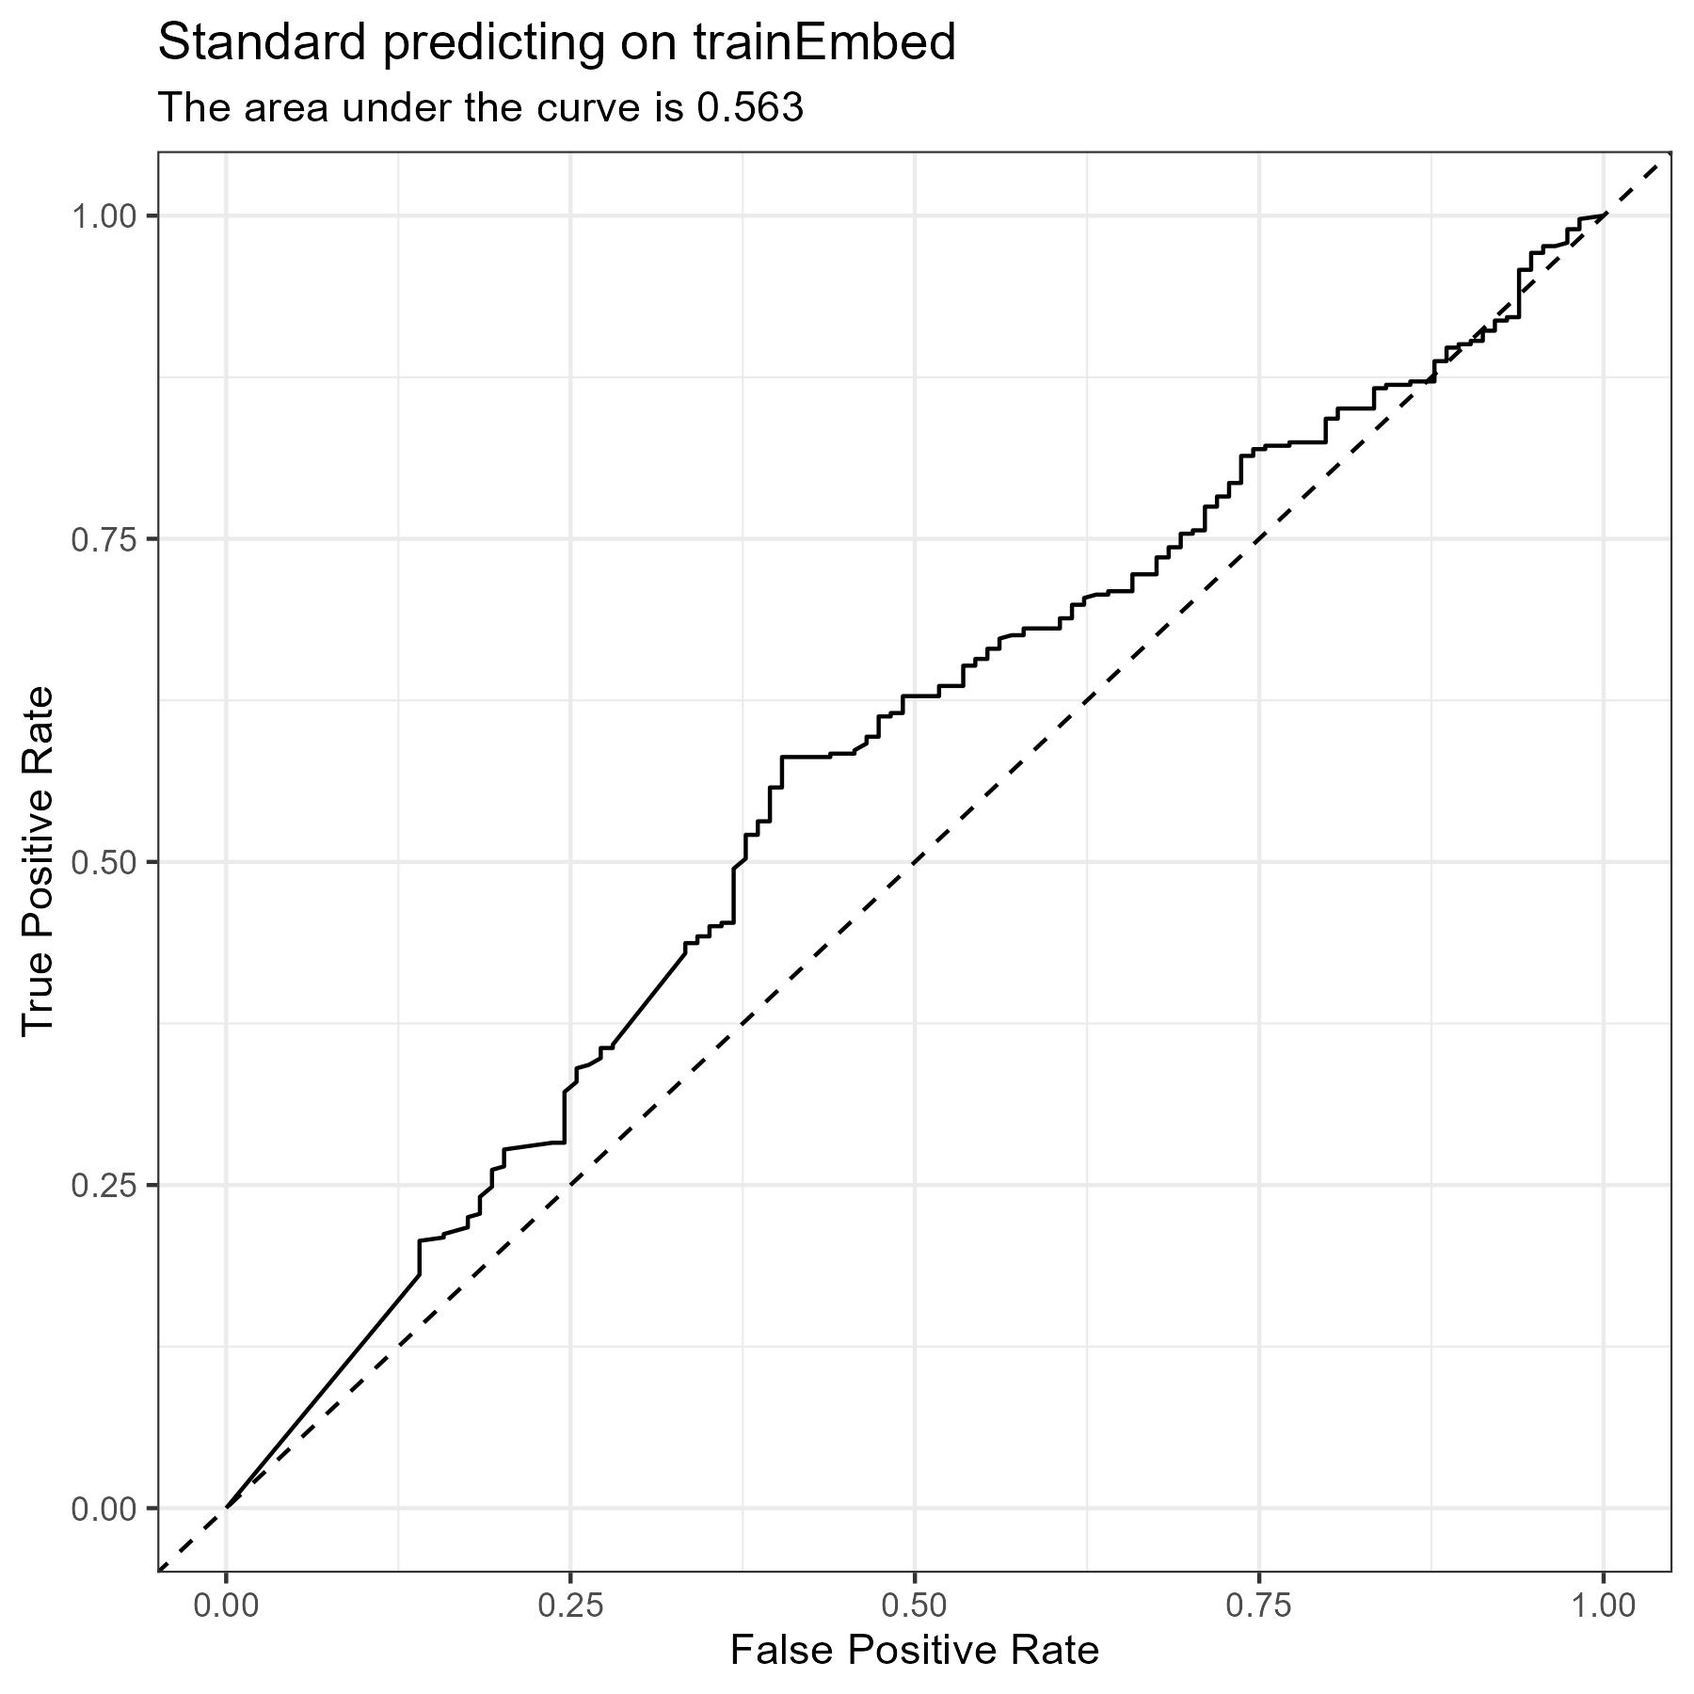
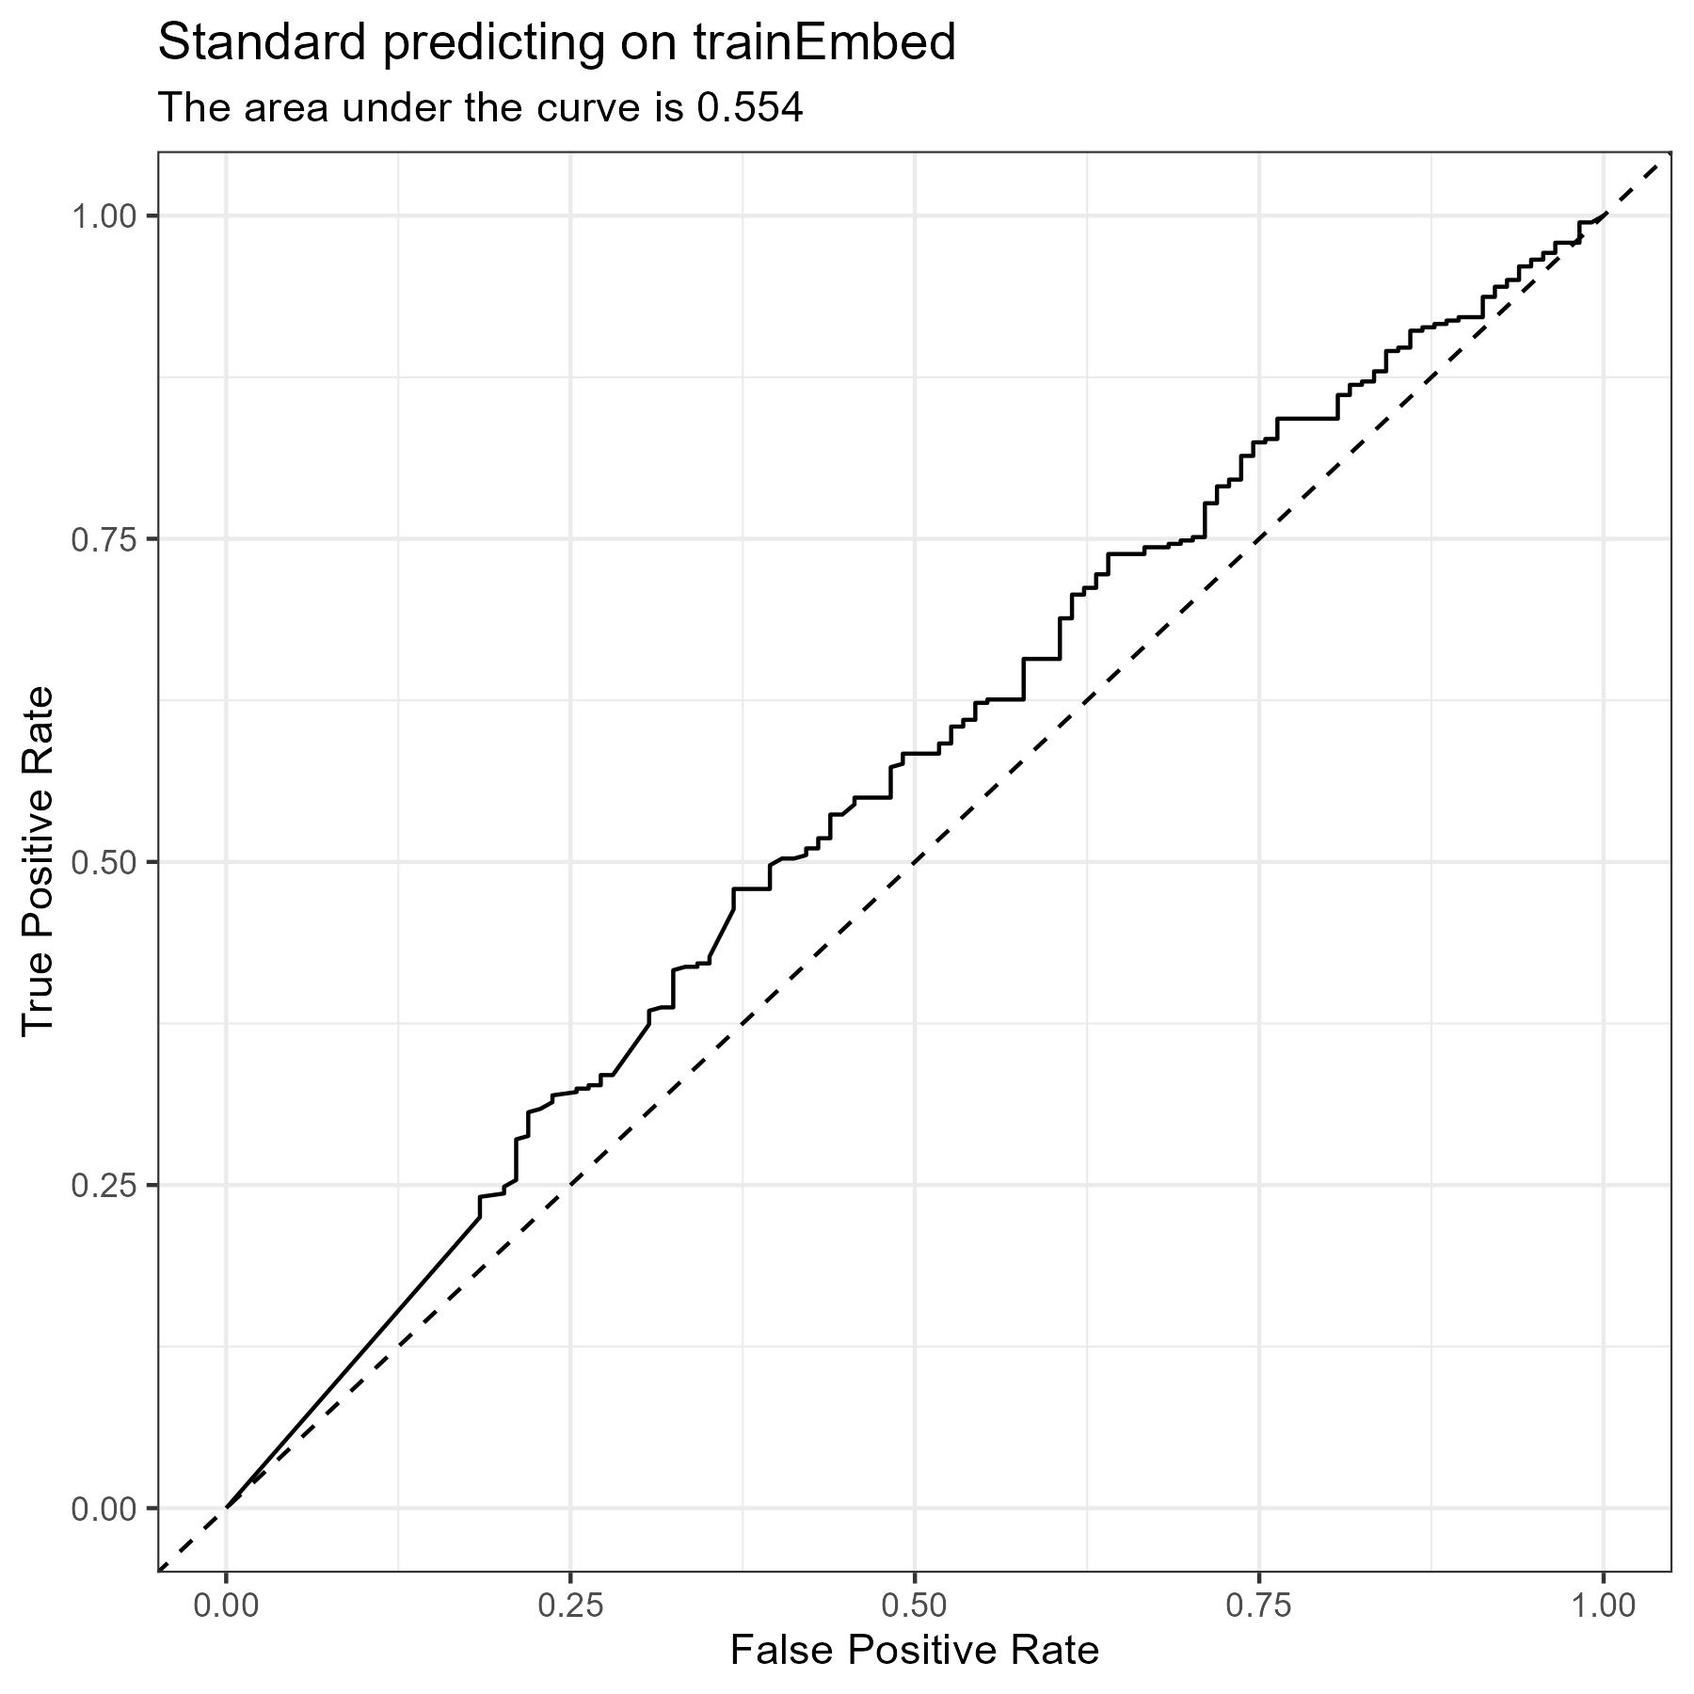
[X] updating 17

diff --git a/updates/17_Adversarial_Network.md b/updates/17_Adversarial_Network.md
@@ -99,6 +99,9 @@ geometry: "margin=1in"
     - 0.0002 Learning Rate
     - Stop Wait: 20
 
+## Initial Classification (for comparison)
+<!--{-->
+
   Stats:
     - Accuracy:     0.227
     - ROC AUC:     0.497
@@ -111,6 +114,15 @@ geometry: "margin=1in"
 |:---:|:---:|:---:|
 | GSE25055 | ![The area under the ROC Curve is 0.497](../plots/11_Adversarial_Network/GSE62944/GSE62944.jpg) | ![Two dimensional PCA plot of METABRIC, GSE62944](../plots/11_Adversarial_Network/GSE62944/GSE62944PCA.jpg) |
 | GSE62944 | ![The area under the ROC Curve is 0.932](../plots/11_Adversarial_Network/GSE62944/newGSE62944.jpg) | ![Two dimensional PCA plot of METABRIC, newGSE62944](../plots/11_Adversarial_Network/GSE62944/rangeEachGSE62944PCA.jpg) |
+
+<!--}-->
+
+## Training Plot
+
+![Training plot of GSE62944](../plots/11_Adversarial_Network/GSE62944/_trainModel_GSE62944_.jpg)
+
+## Data Metrics
+<!--{-->
 
 | Data Set | Max | Min | Mean | Median | SD |
 |:---:|:---:|:---:|:---:|:---:|:---:|
@@ -127,16 +139,18 @@ geometry: "margin=1in"
 | val [after] | 8.763 | -10.404 | -0.054 | 0.037 | 1.069 |
 | test [after] | 9.739 | -18.482 | -0.089 | 0.032 | 1.124 |
 
+<!--}-->
 
-![Two dimensional PCA plot of standardBefore, trainBefore](../plots/11_Adversarial_Network/GSE62944/trainBeforeROC.jpg)
-![Two dimensional PCA plot of standardBefore, valBefore](../plots/11_Adversarial_Network/GSE62944/valBeforeROC.jpg)
-![Two dimensional PCA plot of standardBefore, testBefore](../plots/11_Adversarial_Network/GSE62944/testBeforeROC.jpg)
-![Two dimensional PCA plot of standardEmbed, trainEmbed](../plots/11_Adversarial_Network/GSE62944/trainEmbedROC.jpg)
-![Two dimensional PCA plot of standardEmbed, valEmbed](../plots/11_Adversarial_Network/GSE62944/valEmbedROC.jpg)
-![Two dimensional PCA plot of standardEmbed, testEmbed](../plots/11_Adversarial_Network/GSE62944/testEmbedROC.jpg)
-![Two dimensional PCA plot of standardAfter, trainAfter](../plots/11_Adversarial_Network/GSE62944/trainAfterROC.jpg)
-![Two dimensional PCA plot of standardAfter, valAfter](../plots/11_Adversarial_Network/GSE62944/valAfterROC.jpg)
-![Two dimensional PCA plot of standardAfter, testAfter](../plots/11_Adversarial_Network/GSE62944/testAfterROC.jpg)
+## PCA Plots
+
+| Time | Train | Val | Test |
+|:---:|:---:|:---:|:---:|
+| Before | ![Two dimensional PCA plot of standardBefore, trainBefore](../plots/11_Adversarial_Network/GSE62944/trainBeforePCA.jpg) | ![Two dimensional PCA plot of standardBefore, valBefore](../plots/11_Adversarial_Network/GSE62944/valBeforePCA.jpg) | ![Two dimensional PCA plot of standardBefore, testBefore](../plots/11_Adversarial_Network/GSE62944/testBeforePCA.jpg) |
+| During | ![Two dimensional PCA plot of standardEmbed, trainEmbed](../plots/11_Adversarial_Network/GSE62944/trainEmbedPCA.jpg) | ![Two dimensional PCA plot of standardEmbed, valEmbed](../plots/11_Adversarial_Network/GSE62944/valEmbedPCA.jpg) | ![Two dimensional PCA plot of standardEmbed, testEmbed](../plots/11_Adversarial_Network/GSE62944/testEmbedPCA.jpg) |
+| After | ![Two dimensional PCA plot of standardAfter, trainAfter](../plots/11_Adversarial_Network/GSE62944/trainAfterPCA.jpg) | ![Two dimensional PCA plot of standardAfter, valAfter](../plots/11_Adversarial_Network/GSE62944/valAfterPCA.jpg) | ![Two dimensional PCA plot of standardAfter, testAfter](../plots/11_Adversarial_Network/GSE62944/testAfterPCA.jpg) |
+
+## Prediction Metrics
+<!--{-->
 
 #### trainBefore Confusion Matrix
 
@@ -184,103 +198,96 @@ geometry: "margin=1in"
 
 |   Predicted/Actual    |   +   |   -   |
 | :-------------------: | :---: | :---: |
-|           +           |  315  |  86  |
-|           -           |  67  |  28  |
+|           +           |  317  |  87  |
+|           -           |  65  |  27  |
 
 #### trainEmbed Metrics
 
-- Accuracy:     0.692
-- Precision:    0.786
-- Recall:       0.825
-- Specificity:  0.246
+- Accuracy:     0.694
+- Precision:    0.785
+- Recall:       0.83
+- Specificity:  0.237
 
 #### valEmbed Confusion Matrix
 
 |   Predicted/Actual    |   +   |   -   |
 | :-------------------: | :---: | :---: |
-|           +           |  121  |  35  |
-|           -           |  42  |  16  |
+|           +           |  119  |  35  |
+|           -           |  44  |  16  |
 
 #### valEmbed Metrics
 
-- Accuracy:     0.64
-- Precision:    0.776
-- Recall:       0.742
+- Accuracy:     0.631
+- Precision:    0.773
+- Recall:       0.73
 - Specificity:  0.314
 
 #### testEmbed Confusion Matrix
 
 |   Predicted/Actual    |   +   |   -   |
 | :-------------------: | :---: | :---: |
-|           +           |  199  |  47  |
-|           -           |  41  |  18  |
+|           +           |  203  |  47  |
+|           -           |  37  |  18  |
 
 #### testEmbed Metrics
 
-- Accuracy:     0.711
-- Precision:    0.809
-- Recall:       0.829
+- Accuracy:     0.725
+- Precision:    0.812
+- Recall:       0.846
 - Specificity:  0.277
 
 #### trainAfter Confusion Matrix
 
 |   Predicted/Actual    |   +   |   -   |
 | :-------------------: | :---: | :---: |
-|           +           |  309  |  88  |
-|           -           |  73  |  26  |
+|           +           |  306  |  87  |
+|           -           |  76  |  27  |
 
 #### trainAfter Metrics
 
-- Accuracy:     0.675
-- Precision:    0.778
-- Recall:       0.809
-- Specificity:  0.228
+- Accuracy:     0.671
+- Precision:    0.779
+- Recall:       0.801
+- Specificity:  0.237
 
 #### valAfter Confusion Matrix
 
 |   Predicted/Actual    |   +   |   -   |
 | :-------------------: | :---: | :---: |
-|           +           |  120  |  33  |
-|           -           |  43  |  18  |
+|           +           |  119  |  35  |
+|           -           |  44  |  16  |
 
 #### valAfter Metrics
 
-- Accuracy:     0.645
-- Precision:    0.784
-- Recall:       0.736
-- Specificity:  0.353
+- Accuracy:     0.631
+- Precision:    0.773
+- Recall:       0.73
+- Specificity:  0.314
 
 #### testAfter Confusion Matrix
 
 |   Predicted/Actual    |   +   |   -   |
 | :-------------------: | :---: | :---: |
-|           +           |  194  |  47  |
-|           -           |  46  |  18  |
+|           +           |  197  |  48  |
+|           -           |  43  |  17  |
 
 #### testAfter Metrics
 
-- Accuracy:     0.695
-- Precision:    0.805
-- Recall:       0.808
-- Specificity:  0.277
+- Accuracy:     0.702
+- Precision:    0.804
+- Recall:       0.821
+- Specificity:  0.262
 
-![The area under the ROC Curve is 0.491](../plots/11_Adversarial_Network/GSE62944/trainBeforeROC.jpg)
+<!--}-->
 
-![The area under the ROC Curve is 0.503](../plots/11_Adversarial_Network/GSE62944/valBeforeROC.jpg)
 
-![The area under the ROC Curve is 0.504](../plots/11_Adversarial_Network/GSE62944/testBeforeROC.jpg)
+## ROC Curves
 
-![The area under the ROC Curve is 0.543](../plots/11_Adversarial_Network/GSE62944/trainEmbedROC.jpg)
-
-![The area under the ROC Curve is 0.565](../plots/11_Adversarial_Network/GSE62944/valEmbedROC.jpg)
-
-![The area under the ROC Curve is 0.558](../plots/11_Adversarial_Network/GSE62944/testEmbedROC.jpg)
-
-![The area under the ROC Curve is 0.574](../plots/11_Adversarial_Network/GSE62944/trainAfterROC.jpg)
-
-![The area under the ROC Curve is 0.545](../plots/11_Adversarial_Network/GSE62944/valAfterROC.jpg)
-
-![The area under the ROC Curve is 0.565](../plots/11_Adversarial_Network/GSE62944/testAfterROC.jpg)
+| Time | Train | Val | Test |
+|:---:|:---:|:---:|:---:|
+| Before | ![The area under the ROC Curve is 0.491](../plots/11_Adversarial_Network/GSE62944/trainBeforeROC.jpg){#plot-0 width=100%} | ![The area under the ROC Curve is 0.503](../plots/11_Adversarial_Network/GSE62944/valBeforeROC.jpg){#plot-0 width=100%} | ![The area under the ROC Curve is 0.504](../plots/11_Adversarial_Network/GSE62944/testBeforeROC.jpg){#plot-0 width=100%} |
+| During | ![The area under the ROC Curve is 0.554](../plots/11_Adversarial_Network/GSE62944/trainEmbedROC.jpg){#plot-0 width=100%} | ![The area under the ROC Curve is 0.564](../plots/11_Adversarial_Network/GSE62944/valEmbedROC.jpg){#plot-0 width=100%} | ![The area under the ROC Curve is 0.566](../plots/11_Adversarial_Network/GSE62944/testEmbedROC.jpg){#plot-0 width=100%} |
+| After | ![The area under the ROC Curve is 0.57](../plots/11_Adversarial_Network/GSE62944/trainAfterROC.jpg){#plot-0 width=100%} | ![The area under the ROC Curve is 0.559](../plots/11_Adversarial_Network/GSE62944/valAfterROC.jpg){#plot-0 width=100%} | ![The area under the ROC Curve is 0.551](../plots/11_Adversarial_Network/GSE62944/testAfterROC.jpg){#plot-0 width=100%} |
 
 <!--}-->
 
@@ -297,6 +304,9 @@ geometry: "margin=1in"
     - 0.0001 Learning Rate
     - Stop Wait: 40
 
+## Initial Classification (for comparison)
+<!--{-->
+
   Stats:
     - Accuracy:     0.419
     - ROC AUC:     0.278
@@ -305,11 +315,19 @@ geometry: "margin=1in"
     - Accuracy:     0.78
     - ROC AUC:     0.917
 
-![The area under the ROC Curve is 0.278](../plots/11_Adversarial_Network/GSE25055/GSE25055.jpg)
-![The area under the ROC Curve is 0.917](../plots/11_Adversarial_Network/GSE25055/newGSE25055.jpg)
+| Recipe Set | ROC | PCA |
+|:---:|:---:|:---:|
+| GSE25055 | ![The area under the ROC Curve is 0.278](../plots/11_Adversarial_Network/GSE25055/GSE25055.jpg) | ![Two dimensional PCA plot of Standard, GSE25055](../plots/11_Adversarial_Network/GSE25055/GSE25055PCA.jpg) |
+| GSE62944 | ![The area under the ROC Curve is 0.917](../plots/11_Adversarial_Network/GSE25055/newGSE25055.jpg) | ![Two dimensional PCA plot of Standard, newGSE25055](../plots/11_Adversarial_Network/GSE25055/rangeEachGSE25055PCA.jpg) |
 
-![Two dimensional PCA plot of Standard, GSE25055](../plots/11_Adversarial_Network/GSE25055/GSE25055PCA.jpg)
-![Two dimensional PCA plot of Standard, newGSE25055](../plots/11_Adversarial_Network/GSE25055/rangeEachGSE25055PCA.jpg)
+<!--}-->
+
+## Training Plot
+
+![Training plot of GSE25055](../plots/11_Adversarial_Network/GSE25055/_trainModel_GSE25055_.jpg)
+
+## Data Metrics
+<!--{-->
 
 | Data Set | Max | Min | Mean | Median | SD |
 |:---:|:---:|:---:|:---:|:---:|:---:|
@@ -326,11 +344,18 @@ geometry: "margin=1in"
 | val [after] | 2.358 | -2.674 | 0.223 | 0.191 | 0.637 |
 | test [after] | 2.725 | -2.317 | 0.232 | 0.197 | 0.653 |
 
+<!--}-->
+
+## PCA Plots
+
 | Time | Train | Val | Test |
 |:---:|:---:|:---:|:---:|
-| Before | ![Two dimensional PCA plot of standardBefore, trainBefore](../plots/11_Adversarial_Network/GSE25055/trainBeforeROC.jpg) | ![Two dimensional PCA plot of standardBefore, valBefore](../plots/11_Adversarial_Network/GSE25055/valBeforeROC.jpg) | ![Two dimensional PCA plot of standardBefore, testBefore](../plots/11_Adversarial_Network/GSE25055/testBeforeROC.jpg) |
-| During | ![Two dimensional PCA plot of standardEmbed, trainEmbed](../plots/11_Adversarial_Network/GSE25055/trainEmbedROC.jpg) | ![Two dimensional PCA plot of standardEmbed, valEmbed](../plots/11_Adversarial_Network/GSE25055/valEmbedROC.jpg) | ![Two dimensional PCA plot of standardEmbed, testEmbed](../plots/11_Adversarial_Network/GSE25055/testEmbedROC.jpg) |
-| After | ![Two dimensional PCA plot of standardAfter, trainAfter](../plots/11_Adversarial_Network/GSE25055/trainAfterROC.jpg) | ![Two dimensional PCA plot of standardAfter, valAfter](../plots/11_Adversarial_Network/GSE25055/valAfterROC.jpg) | ![Two dimensional PCA plot of standardAfter, testAfter](../plots/11_Adversarial_Network/GSE25055/testAfterROC.jpg) |
+| Before | ![Two dimensional PCA plot of standardBefore, trainBefore](../plots/11_Adversarial_Network/GSE25055/trainBeforePCA.jpg) | ![Two dimensional PCA plot of standardBefore, valBefore](../plots/11_Adversarial_Network/GSE25055/valBeforePCA.jpg) | ![Two dimensional PCA plot of standardBefore, testBefore](../plots/11_Adversarial_Network/GSE25055/testBeforePCA.jpg) |
+| During | ![Two dimensional PCA plot of standardEmbed, trainEmbed](../plots/11_Adversarial_Network/GSE25055/trainEmbedPCA.jpg) | ![Two dimensional PCA plot of standardEmbed, valEmbed](../plots/11_Adversarial_Network/GSE25055/valEmbedPCA.jpg) | ![Two dimensional PCA plot of standardEmbed, testEmbed](../plots/11_Adversarial_Network/GSE25055/testEmbedPCA.jpg) |
+| After | ![Two dimensional PCA plot of standardAfter, trainAfter](../plots/11_Adversarial_Network/GSE25055/trainAfterPCA.jpg) | ![Two dimensional PCA plot of standardAfter, valAfter](../plots/11_Adversarial_Network/GSE25055/valAfterPCA.jpg) | ![Two dimensional PCA plot of standardAfter, testAfter](../plots/11_Adversarial_Network/GSE25055/testAfterPCA.jpg) |
+
+## Prediction Metrics
+<!--{-->
 
 #### trainBefore Confusion Matrix
 
@@ -458,34 +483,33 @@ geometry: "margin=1in"
 - Recall:       1
 - Specificity:  0.275
 
-![The area under the ROC Curve is 0.281](../plots/11_Adversarial_Network/GSE25055/trainBeforeROC.jpg)
+<!--}-->
 
-![The area under the ROC Curve is 0.21](../plots/11_Adversarial_Network/GSE25055/valBeforeROC.jpg)
+## ROC Curves
 
-![The area under the ROC Curve is 0.315](../plots/11_Adversarial_Network/GSE25055/testBeforeROC.jpg)
-
-![The area under the ROC Curve is 0.673](../plots/11_Adversarial_Network/GSE25055/trainEmbedROC.jpg)
-
-![The area under the ROC Curve is 0.566](../plots/11_Adversarial_Network/GSE25055/valEmbedROC.jpg)
-
-![The area under the ROC Curve is 0.697](../plots/11_Adversarial_Network/GSE25055/testEmbedROC.jpg)
-
-![The area under the ROC Curve is 0.777](../plots/11_Adversarial_Network/GSE25055/trainAfterROC.jpg)
-
-![The area under the ROC Curve is 0.78](../plots/11_Adversarial_Network/GSE25055/valAfterROC.jpg)
-
-![The area under the ROC Curve is 0.816](../plots/11_Adversarial_Network/GSE25055/testAfterROC.jpg)
+| Time | Train | Val | Test |
+|:---:|:---:|:---:|:---:|
+| Before | ![The area under the ROC Curve is 0.281](../plots/11_Adversarial_Network/GSE25055/trainBeforeROC.jpg) | ![The area under the ROC Curve is 0.21](../plots/11_Adversarial_Network/GSE25055/valBeforeROC.jpg) | ![The area under the ROC Curve is 0.315](../plots/11_Adversarial_Network/GSE25055/testBeforeROC.jpg) |
+| During | ![The area under the ROC Curve is 0.673](../plots/11_Adversarial_Network/GSE25055/trainEmbedROC.jpg) | ![The area under the ROC Curve is 0.566](../plots/11_Adversarial_Network/GSE25055/valEmbedROC.jpg) | ![The area under the ROC Curve is 0.697](../plots/11_Adversarial_Network/GSE25055/testEmbedROC.jpg) |
+| After | ![The area under the ROC Curve is 0.777](../plots/11_Adversarial_Network/GSE25055/trainAfterROC.jpg) | ![The area under the ROC Curve is 0.78](../plots/11_Adversarial_Network/GSE25055/valAfterROC.jpg) | ![The area under the ROC Curve is 0.816](../plots/11_Adversarial_Network/GSE25055/testAfterROC.jpg) |
 
 <!--}-->
 
-# Using both
+# Comparing the Two
 <!--{-->
 
 - This is from using the conformed GSE25055 data set to train a model and predict on the conformed GSE62944 data set
 
+## Plots
 
-![Two dimensional PCA plot of GSE25055Before, GSE62944Before](../plots/11_Adversarial_Network/distinguish/GSE62944BeforePCA.jpg)
-![The area under the ROC Curve is 0.299](../plots/11_Adversarial_Network/distinguish/GSE62944BeforeROC.jpg)
+| Time | PCA | ROC|
+|:---:|:---:|:---:|
+| ![Two dimensional PCA plot of GSE25055Before, GSE62944Before](../plots/11_Adversarial_Network/distinguish/GSE62944BeforePCA.jpg) | ![The area under the ROC Curve is 0.299](../plots/11_Adversarial_Network/distinguish/GSE62944BeforeROC.jpg) |
+| ![Two dimensional PCA plot of GSE25055During, GSE62944During](../plots/11_Adversarial_Network/distinguish/GSE62944DuringPCA.jpg) | ![The area under the ROC Curve is 0.529](../plots/11_Adversarial_Network/distinguish/GSE62944DuringROC.jpg) |
+| ![Two dimensional PCA plot of GSE25055After, GSE62944After](../plots/11_Adversarial_Network/distinguish/GSE62944AfterPCA.jpg) | ![The area under the ROC Curve is 0.534](../plots/11_Adversarial_Network/distinguish/GSE62944AfterROC.jpg) |
+
+## Prediction Metrics
+<!--{-->
 
 #### Before Conformation (GSE62944) Confusion Matrix
 
@@ -501,9 +525,6 @@ geometry: "margin=1in"
 - Recall:       0
 - Specificity:  0.996
 
-![Two dimensional PCA plot of GSE25055During, GSE62944During](../plots/11_Adversarial_Network/distinguish/GSE62944DuringPCA.jpg)
-![The area under the ROC Curve is 0.529](../plots/11_Adversarial_Network/distinguish/GSE62944DuringROC.jpg)
-
 #### During Conformation (GSE62944) Confusion Matrix
 
 |   Predicted/Actual    |   +   |   -   |
@@ -517,9 +538,6 @@ geometry: "margin=1in"
 - Precision:    0.778
 - Recall:       0.899
 - Specificity:  0.122
-
-![Two dimensional PCA plot of GSE25055After, GSE62944After](../plots/11_Adversarial_Network/distinguish/GSE62944AfterPCA.jpg)
-![The area under the ROC Curve is 0.534](../plots/11_Adversarial_Network/distinguish/GSE62944AfterROC.jpg)
 
 #### After Conformation (GSE62944) Confusion Matrix
 
@@ -535,8 +553,8 @@ geometry: "margin=1in"
 - Recall:       0.89
 - Specificity:  0.126
 
-
 <!--}-->
 
+<!--}-->
 
 
